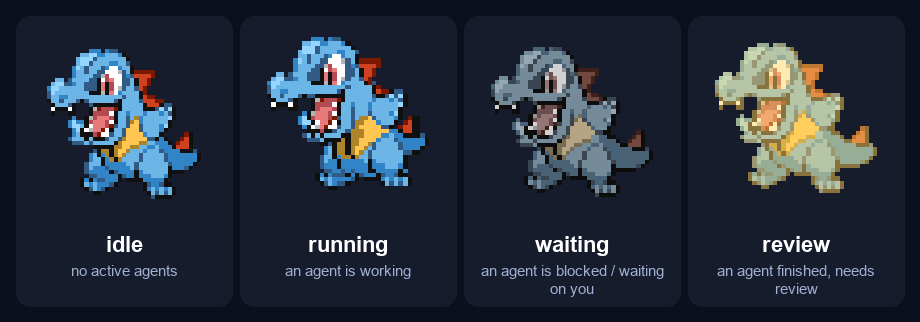
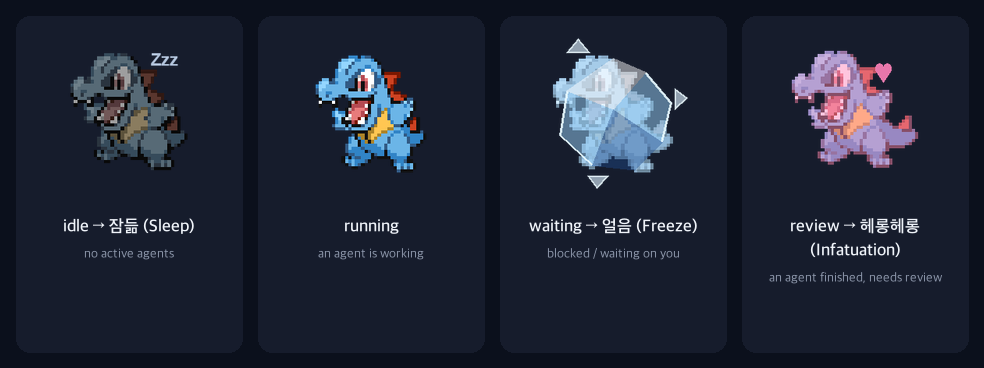
Reskin waiting/review/idle as Pokémon status conditions (Freeze/Infatuation/Sleep)
blocked/waiting is now Freeze (held pose + angular ice crystal overlay,
not a round bubble — reads as "frozen" rather than "soap bubble"), done
is Infatuation (pink tint + floating hearts, replacing the gold tint),
and idle is Sleep (darker/desaturated + drifting "Zzz"). working/running
is unchanged. Priority logic in PetAnimationState.swift is untouched —
only the baked sprite pixels for those three rows changed, via new
draw_ice_crystal()/draw_hearts()/draw_zzz() helpers in build_sheet.py.

Regenerated docs/pet-states.png and updated README to match.

diff --git a/scripts/build_sheet.py b/scripts/build_sheet.py
@@ -13,7 +13,7 @@ import json
 import os
 import urllib.request
 
-from PIL import Image, ImageEnhance
+from PIL import Image, ImageDraw, ImageEnhance, ImageFont
 
 HERE = os.path.dirname(os.path.abspath(__file__))
 REPO_ROOT = os.path.dirname(HERE)
@@ -104,6 +104,102 @@ def flip(img):
     return img.transpose(Image.FLIP_LEFT_RIGHT)
 
 
+# Pokémon status-condition skins for the priority states from
+# PetAnimationState.swift: blocked/waiting -> Freeze, done -> Infatuation,
+# nothing -> Sleep. These layer a drawn overlay on top of the tinted sprite
+# instead of relying on tint/desaturate alone, since a color shift by itself
+# reads as a mood filter rather than a distinct status (see connor-pet
+# artifact "얼음 연출 비교" — bubble read as soap-bubble, angular ice crystal
+# read as "frozen" and matches the actual in-game status-effect art style).
+def _load_font(size):
+    candidates = [
+        "/System/Library/Fonts/Supplemental/Arial Bold.ttf",
+        "/System/Library/Fonts/Supplemental/Arial.ttf",
+        "/System/Library/Fonts/Helvetica.ttc",
+    ]
+    for path in candidates:
+        if os.path.exists(path):
+            try:
+                return ImageFont.truetype(path, size)
+            except Exception:
+                continue
+    return ImageFont.load_default()
+
+
+def draw_ice_crystal(frame, shimmer=1.0):
+    """Encase the sprite in an angular ice crystal (not a round bubble) —
+    a faceted polygon plus three shards poking past its edges."""
+    size = frame.size[0]
+    inset = 25
+    x0, y0, x1, y1 = inset, inset, size - inset, size - inset
+    w, h = x1 - x0, y1 - y0
+
+    def pt(fx, fy):
+        return (x0 + fx * w, y0 + fy * h)
+
+    overlay = Image.new("RGBA", frame.size, (0, 0, 0, 0))
+    draw = ImageDraw.Draw(overlay)
+
+    outline_pts = [pt(*p) for p in [
+        (0.50, 0.02), (0.78, 0.14), (1.00, 0.40), (0.92, 0.74),
+        (0.68, 0.98), (0.32, 0.94), (0.04, 0.68), (0.10, 0.30),
+    ]]
+    fill_a = int(130 * shimmer)
+    draw.polygon(outline_pts, fill=(150, 205, 245, fill_a))
+    draw.polygon(outline_pts, outline=(230, 248, 255, 235), width=3)
+
+    highlight_pts = [pt(*p) for p in [(0.50, 0.02), (0.78, 0.14), (0.50, 0.46), (0.10, 0.30)]]
+    draw.polygon(highlight_pts, fill=(255, 255, 255, int(120 * shimmer)))
+
+    shadow_pts = [pt(*p) for p in [(0.68, 0.98), (0.92, 0.74), (0.50, 0.46), (0.32, 0.94)]]
+    draw.polygon(shadow_pts, fill=(30, 80, 150, int(100 * shimmer)))
+
+    shards = [
+        [(x0 + 0.10 * w, y0 - 4), (x0 + 0.30 * w, y0 - 4), (x0 + 0.20 * w, y0 - 22)],
+        [(x1 + 4, y0 + 0.28 * h), (x1 + 4, y0 + 0.46 * h), (x1 + 20, y0 + 0.36 * h)],
+        [(x0 + 0.28 * w, y1 + 4), (x0 + 0.46 * w, y1 + 4), (x0 + 0.36 * w, y1 + 20)],
+    ]
+    for shard in shards:
+        draw.polygon(shard, fill=(220, 240, 255, int(160 * shimmer)))
+        draw.polygon(shard, outline=(235, 250, 255, 220), width=2)
+
+    return Image.alpha_composite(frame, overlay)
+
+
+def draw_heart(draw, cx, cy, size, alpha):
+    r = size / 2
+    draw.ellipse([cx - r, cy - r * 1.3, cx, cy - 0.1 * r], fill=(255, 130, 185, alpha))
+    draw.ellipse([cx, cy - r * 1.3, cx + r, cy - 0.1 * r], fill=(255, 130, 185, alpha))
+    draw.polygon([(cx - r, cy - 0.4 * r), (cx + r, cy - 0.4 * r), (cx, cy + r * 1.1)], fill=(255, 130, 185, alpha))
+
+
+def draw_hearts(frame, frame_index):
+    """Floating hearts for the Infatuation skin, timed to rise + fade across
+    the row's 4-frame loop like the CSS heartFloat keyframes."""
+    overlay = Image.new("RGBA", frame.size, (0, 0, 0, 0))
+    draw = ImageDraw.Draw(overlay)
+    alphas = [0, 190, 230, 90]
+    dy = [10, 0, -12, -24]
+    draw_heart(draw, frame.size[0] * 0.68, frame.size[1] * 0.30 + dy[frame_index], 20, alphas[frame_index])
+    alt = (frame_index + 2) % 4
+    draw_heart(draw, frame.size[0] * 0.32, frame.size[1] * 0.22 + dy[alt], 14, alphas[alt])
+    return Image.alpha_composite(frame, overlay)
+
+
+def draw_zzz(frame, frame_index):
+    """Drifting "Zzz" for the Sleep skin, timed like the CSS zzzFloat keyframes."""
+    overlay = Image.new("RGBA", frame.size, (0, 0, 0, 0))
+    draw = ImageDraw.Draw(overlay)
+    alphas = [0, 210, 130, 0]
+    dx = [0, 4, 12, 20]
+    dy = [8, -2, -14, -26]
+    font = _load_font(22)
+    x = frame.size[0] * 0.62 + dx[frame_index]
+    y = frame.size[1] * 0.10 + dy[frame_index]
+    draw.text((x, y), "Zzz", font=font, fill=(210, 230, 255, alphas[frame_index]))
+    return Image.alpha_composite(frame, overlay)
+
+
 def main():
     front_path = fetch(FRONT_URL, os.path.join(CACHE_DIR, "front.gif"))
     back_path = fetch(BACK_URL, os.path.join(CACHE_DIR, "back.gif"))
@@ -118,9 +214,17 @@ def main():
 
     rows = {}
 
+    # idle == "nothing is happening" in agentStateAnimation, reskinned as the
+    # Sleep status: darker/desaturated + a drifting "Zzz" instead of a plain
+    # resting pose.
     idle_src = pick(front_base, [0.0, 0.3, 0.55, 0.85])
+    idle_frames = []
+    for i, s in enumerate(idle_src):
+        sleepy = desaturate(s, 0.4, 0.62)
+        frame = paste_centered(sleepy, dy=[0, -3, -5, -2][i])
+        idle_frames.append(draw_zzz(frame, i))
     rows["idle"] = {
-        "frames": [paste_centered(s, dy=[0, -3, -5, -2][i]) for i, s in enumerate(idle_src)],
+        "frames": idle_frames,
         "durations": [900, 500, 500, 900]
     }
 
@@ -155,10 +259,18 @@ def main():
         fail_frames.append(paste_centered(tinted, dx=[-6, 6, -4, 0][i], dy=[2, 2, 4, 6][i]))
     rows["failed"] = {"frames": fail_frames, "durations": [140, 140, 140, 240]}
 
-    wait_src = pick(front_base, [0.0, 0.5])
-    wait_src = [wait_src[0], wait_src[1], wait_src[1], wait_src[0]]
+    # blocked/waiting wins the priority check immediately, so it's reskinned
+    # as Freeze: held on one pose (frozen == not moving) and encased in an
+    # angular ice crystal, with a faint shimmer across the loop instead of
+    # actual motion.
+    freeze_pose = paste_centered(front_base[0])
+    freeze_frames = []
+    shimmer_by_frame = [0.85, 1.0, 1.0, 0.85]
+    for i, shimmer in enumerate(shimmer_by_frame):
+        icy = tint(desaturate(freeze_pose, 0.35, 1.1), (170, 215, 250), 0.6)
+        freeze_frames.append(draw_ice_crystal(icy, shimmer=shimmer))
     rows["waiting"] = {
-        "frames": [paste_centered(desaturate(s, 0.35, 0.82), dy=[0, -2, -2, 0][i]) for i, s in enumerate(wait_src)],
+        "frames": freeze_frames,
         "durations": [800, 700, 700, 800]
     }
 
@@ -169,10 +281,17 @@ def main():
         "durations": [120, 120, 120, 120]
     }
 
+    # done is the completion state, reskinned as Infatuation: a warm pink
+    # tint (replacing the old gold) plus floating hearts instead of just a
+    # color shift.
     rev_src = pick(front_base, [0.0, 0.3, 0.6, 0.9])
+    review_frames = []
+    for i, s in enumerate(rev_src):
+        tinted = tint(s, (255, 140, 190), [0.15, 0.35, 0.5, 0.35][i])
+        frame = paste_centered(tinted, dy=[0, -4, -6, -4][i])
+        review_frames.append(draw_hearts(frame, i))
     rows["review"] = {
-        "frames": [paste_centered(tint(s, (255, 214, 102), [0.15, 0.35, 0.5, 0.35][i]), dy=[0, -4, -6, -4][i])
-                   for i, s in enumerate(rev_src)],
+        "frames": review_frames,
         "durations": [220, 220, 220, 220]
     }
 
@@ -197,9 +316,9 @@ def main():
     manifest = {
         "id": "totodile-riako",
         "displayName": "리아코 (Totodile)",
-        "description": "Custom connor-pet build: Totodile / 리아코 reacts to live Orca agent/project status "
-                        "(idle/running/waiting/review/jumping/running-left/running-right), built from "
-                        "PokeAPI gen5 battle sprites.",
+        "description": "Custom connor-pet build: Totodile / 리아코 reacts to live Orca agent/project status, "
+                        "skinned as Pokémon status conditions — blocked/waiting=Freeze, done=Infatuation, "
+                        "nothing=Sleep, working=running (unchanged). Built from PokeAPI gen5 battle sprites.",
         "spritesheetPath": "spritesheet.png",
         "frame": {"width": FRAME, "height": FRAME},
         "fps": 8,

diff --git a/README.md b/README.md
@@ -34,16 +34,28 @@ Orca의 훅 서버는 열려있는 모든 에이전트 패널의 상태를 250ms
 3. 없고 하나라도 `done` → **review**
 4. 아무것도 없음 → **idle**
 
+우선순위 로직 자체는 Orca 펫과 동일하게 포팅한 것이고, 여기에 각 상태를 포켓몬 상태이상
+컨셉으로 다시 스킨했습니다: `waiting`=**얼음(Freeze)**, `review`=**헤롱헤롱(Infatuation)**,
+`idle`=**잠듦(Sleep)**. `running`은 원래 그대로입니다.
+
 마우스를 올리면 **jumping**, 드래그하면 마우스를 따라 **running-left**/**running-right**.
 
 ### 상태별로 실제 어떻게 보이는지
 
 ![idle / running / waiting / review](docs/pet-states.png)
 
-`idle`과 `running`은 색이 아니라 주로 움직임(느린 숨쉬기 vs 빠른 바운스)으로 구분돼서,
-정지 이미지로 보면 실제로 움직일 때보다 더 비슷해 보입니다. `waiting`은 채도를 낮췄고
-`review`는 따뜻한 골드 톤이 들어갑니다 — 둘 다 `codex-pet-sprite-defaults.ts`의 행별
-처리를 그대로 포팅한 것입니다.
+- **idle → 잠듦**: 채도/밝기를 크게 낮추고 위로 떠오르며 사라지는 "Zzz"를 얹었습니다. 할 일이
+  없을 때는 그냥 자고 있는 걸로.
+- **running**: 색 변화 없이 빠른 바운스 루프 그대로 — 변경 없음.
+- **waiting → 얼음**: 한 포즈에 고정(=멈춰있음)하고 각진 얼음 결정 오버레이(모서리에 삐죽
+  튀어나온 조각 포함)를 씌웠습니다. 채도만 낮췄던 이전 버전보다 "완전히 멈췄음"이 훨씬 명확하게
+  전달됩니다.
+- **review → 헤롱헤롱**: 골드 톤 대신 핑크 톤 + 떠오르는 하트 이펙트로, "일 끝났다"는 긍정적인
+  뉘앙스를 상태이상 컨셉 안에서 표현했습니다.
+
+전부 `scripts/build_sheet.py`의 `tint()`/`desaturate()`에 더해 `draw_ice_crystal()`/
+`draw_hearts()`/`draw_zzz()`로 PNG에 직접 구운 것이라, Swift 쪽 코드는 건드리지 않았습니다
+(애니메이션 우선순위/재생 로직은 그대로, 스프라이트 픽셀만 다시 구운 것).
 
 ## 폴더 구조
 
